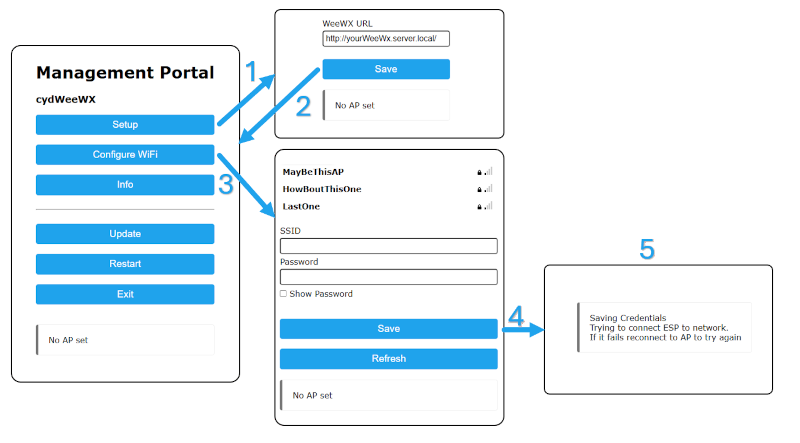
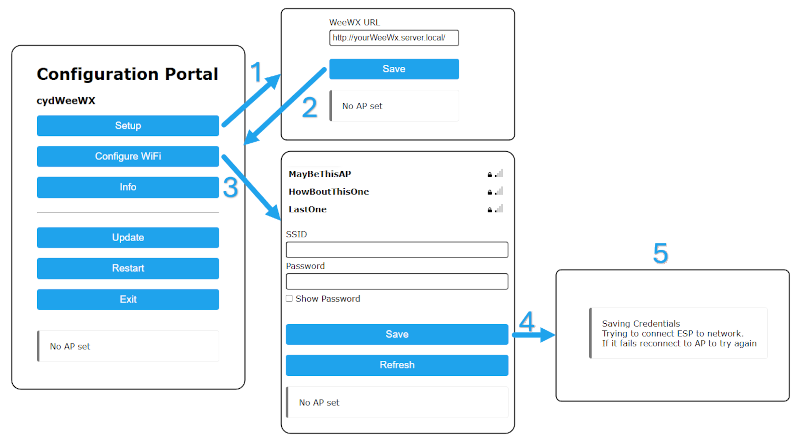
More clean up

diff --git a/cydWeeWX/weathericons_22c.h b/cydWeeWX/weathericons_22c.h
@@ -3,7 +3,7 @@
 // ** https://erikflowers.github.io/weather-icons/
 // ** Size: 22 px
 // ** Bpp: 4
-// ** Opts: --bpp 4 --size 22 --font weathericons-regular-webfont.ttf --range 61440-61675 --format lvgl -o weathericons_22c.h
+// ** Opts: --bpp 4 --size 22 --font weathericons-regular-webfont.ttf --range 61440-61675 --format lvgl -o weatherIcons_22c.h
 // **********************************************************************************
 // ** Included in the cydWeeWX project https://github.com/hcomet/cydWeeWX
 // **********************************************************************************
@@ -5177,9 +5177,9 @@ static lv_font_fmt_txt_dsc_t font_dsc_weathericons_22c = {
 
 /*Initialize a public general font descriptor*/
 #if LVGL_VERSION_MAJOR >= 8
-const lv_font_t weathericons_22c = {
+const lv_font_t weatherIcons_22c = {
 #else
-lv_font_t weathericons_22c = {
+lv_font_t weatherIcons_22c = {
 #endif
     .get_glyph_dsc = lv_font_get_glyph_dsc_fmt_txt,    /*Function pointer to get glyph's data*/
     .get_glyph_bitmap = lv_font_get_bitmap_fmt_txt,    /*Function pointer to get glyph's bitmap*/

diff --git a/cydWeeWX/README.md b/cydWeeWX/README.md
@@ -1,14 +1,14 @@
-# Building and installing cydWeeWX
+# How to Build and Install cydWeeWX
 
 ## Set Up Your Build Environment
 
 1. Install the Arduino IDE.  
   <u>**NOTE:**</u>  Use of the latest 2.x version of the IDE is recommended since builds have only been verified with that version of the IDE.
-2. Add support for ESP32 modules using the Boards Manager in the Arduino IDE.  
+2. Add support for ESP32 modules using the _Boards Manager_ in the Arduino IDE.  
     * Install the boards plugin for esp32 by Espressif Systems version 3.x.
-3. The CYD uses an ESP32-WROOM and any if the basic boards definitions should work. I've used "`ESP32-WROOM-DA Module`" and "`ESP32 Dev Module`" without issue.
-4. The cydWeeWX uses [LVGL](https://lvgl.io/) which makes builds quite large. Make sure to select "`Minimal SPIFFS (1.9MB APP with OTA/190KB SPIFS)`"
-5. Install the following libraries if not already installed:
+3. The CYD uses an ESP32-WROOM and any if the basic boards definitions should work. I've used _ESP32-WROOM-DA Module_ and _ESP32 Dev Module_ without issue.
+4. The cydWeeWX uses [LVGL](https://lvgl.io/) which makes builds quite large. Make sure to select a **Partition Scheme** of _Minimal SPIFFS (1.9MB APP with OTA/190KB SPIFS)_.
+5. Install the following Arduino libraries if not already installed:
    * [ArduinoJson by Benoit Blanchon](https://arduinojson.org/) - Version: 7.2.1
    * [TaskScheduler by Anatoli Arkhipenko](https://github.com/arkhipenko/TaskScheduler) - Version: 3.8.5
    * [WiFiManager by tzapu](https://github.com/tzapu/WiFiManager) - Version 2.0.17
@@ -17,7 +17,7 @@
 
    <u>**NOTE:**</u> If newer versions of a library are available then only use new subversions not new major versions.
 
-6. Download the latest firmware release from <https://github.com/hcomet/cydWeeWX/releases>  
+6. Download the latest source code release from <https://github.com/hcomet/cydWeeWX/releases>  
   <u>**NOTE:**</u> After extracting the release to your file system open the ***cydWeeWX.ino*** file in the Arduino IDE. This will open the full set of source files in the IDE. Now configure the firmware before building it.
   
 ### Configure Firmware in the ***cydWeeWXDefines.h*** file
@@ -40,8 +40,7 @@ The cydWeeWX firmware may be built without any changes to the default settings i
     #define CYD_WWX_BL_BRIGHTNESS 100
     ```  
     
-  * Pre-configure configuration portal items.
-  * By default the cydWeeWX will concatenate a 4 digit random value to the end of the Access Point base password resulting in _cydWeeWx####_. This is done on each boot of the device. Commenting out this line will prevent the random value concatenation resulting in _cydWeeWX_ being the password all the time.  
+  * By default the cydWeeWX will concatenate a 4 digit random value to the end of the Access Point base password resulting in _cydWeeWx####_. This is done on each boot of the device. Commenting out this line will prevent the random value concatenation resulting in same password being used all the time.  
   
     ```c
     #define WIFI_MANAGER_ENABLE_PASSWORD_RANDOM
@@ -55,20 +54,22 @@ The cydWeeWX firmware may be built without any changes to the default settings i
     #define CYD_WWX_WM_AP_PASSWORD CYD_WWX_WM_AP_NAME
     ```
 
-  * WOKWi Simulation setup is found [here](../WOKWi/README.md).
+  * A build for WOKWi Simulation maybe enabled using the details found [here](../WOKWi/README.md). The default is to disable WOKWi builds since they will not work properly on the physical cydWeeWX.
   
 ### TSP-eSPI ***User_Setup.h***
 
-A ***User_Setup.h*** file that matches your CYD must be placed in the Arduino TFT_eSPI library folder. The one provided in Brian Lough's github [ESP32-Cheap-Yellow-Display](https://github.com/witnessmenow/ESP32-Cheap-Yellow-Display) repository generally works. It can be found at [User_Setup.h](https://github.com/witnessmenow/ESP32-Cheap-Yellow-Display/blob/main/DisplayConfig/User_Setup.h). Read the [CYD Setup](https://github.com/witnessmenow/ESP32-Cheap-Yellow-Display/blob/main/SETUP.md) instructions. 
-
-If you are having display issues then you may have the wrong driver defined. Classic CYD devices seem to work well with either _ILI9341_DRIVER _ or _ILI9341_2_DRIVER _. My CYD had the combination USB2 and USB3 ports and worked well with _ST7789_DRIVER_.
+A ***User_Setup.h*** file that matches your CYD must be placed in the Arduino TFT_eSPI library folder. Brian Lough's github [ESP32-Cheap-Yellow-Display](https://github.com/witnessmenow/ESP32-Cheap-Yellow-Display) repository provides two basic versions that generally work. One is for CYD boards with a single USB port, [User_Setup.h](https://github.com/witnessmenow/ESP32-Cheap-Yellow-Display/blob/main/DisplayConfig/User_Setup.h). The second is for CYD boards with two USB ports, [User_Setup.h](https://github.com/witnessmenow/ESP32-Cheap-Yellow-Display/blob/main/DisplayConfig/CYD2USB/User_Setup.h). Also be sure to read the general [CYD Setup](https://github.com/witnessmenow/ESP32-Cheap-Yellow-Display/blob/main/SETUP.md) instructions. 
 
 ### LVGL ***lv_conf.h***
 
+The LVGL library needs a ***lv_conf.h*** file set up for your device. There is one included with the cydWeeWX source code, [lv_conf.h](./lv_conf.h). You can leave it in the sketch folder. If you already have one in your ***Arduino/libraries*** folder you may need to replace it with the cydWeeWX version of the file.
+
 ## WeeWX-JSON Extension Installation
+
+The cydWeeWX device makes queries to your WeeWX server to pick up current weather data for your weather station. The WeeWX server needs to be configured to support weewx-json report generation. Follow these [instructions](../WeeWX/README.md) to complete the configuration.
 
 ## Build and Run
 
-1. After configuring values in the ***cydWeeWXDefines.h***, using the Arduino IDE build and upload the firmware to your ESP32-CYD.
+1. After completing the steps above, use the Arduino IDE to build and upload the firmware to your ESP32-CYD.
 2. Follow the [steps](../README.md/#configuration-portal-steps) to set up your WiFi connection and WeeWX URL.
-3. 
+3. Your ESP32-CYD should now be a working cydWeeWX.

diff --git a/README.md b/README.md
@@ -31,7 +31,7 @@ WMO icon and icon colors will change based in whether it is currently night or d
   <img src="./images/cydWeeWXNight.jpg" />
 </p>
 
-The cydWeeWX device makes use of Arduino [WiFi Manager](https://github.com/tzapu/WiFiManager) library to implement a configuration portal. The configuration portal allows you to set up the WiFi configuration as well as input the URL for your WeeWX server.
+The cydWeeWX device makes use of Arduino [WiFi Manager](https://github.com/tzapu/WiFiManager) library to implement a Configuration Portal. The Configuration Portal allows you to set up the WiFi configuration as well as input the URL for your WeeWX server.
 
 ## Configuration
 
@@ -50,7 +50,7 @@ With a phone, tablet or PC, connect to the cydWeeWX access point at the indicate
 </p>
 
 1. Click on the **Setup** button to go to a page where you can enter your WeeWX URL. The URL must start with "_HTTP://_" and end with a slash, "_/_".
-2. Click **Save** to save the WeeWX URL and hit the browser back button to return to the COnfiguration Portal main page.
+2. Click **Save** to save the WeeWX URL and hit the browser back button to return to the Configuration Portal main page.
 3. Now click **Configure WiFi** to go to the WiFi configuration page.
 4. Enter the _SSID_ and _Password_ for you WiFI network then click **Save**.
 5. At this point the cydWeeWX will attempt to connect to your WiFi network and then display your current weather data.
@@ -82,3 +82,11 @@ The Configuration Portal will timeout after 5 minutes. If WiFi connectivity has 
 ## WOKWi Simulation
 
 The display images shown above were generated using a [WOKWi](https://wokwi.com) simulation of the cydWeeWX. The firmware is too large to use directly on the WOKWi web site but it will run using the VS Code plugin. How to set up the VS Code plugin can be found on the [WOKWi](https://docs.wokwi.com/vscode/getting-started) site. Information about how to build cydWeeWX firmware for simulation can be found [here](./WOKWi/README.md).
+
+## Third Party Acknowledgements
+
+* Brian Lough's [ESP32-Cheap-Yellow-Display](https://github.com/witnessmenow/ESP32-Cheap-Yellow-Display/tree/main) site. A great place to go for information on the CYD.
+* [WeeWX](https://www.weewx.com/) open source software for your weather station.
+* Erik Flowers' [Weather Icons](https://erikflowers.github.io/weather-icons/) site. The icons used in the cydWeeWX are LVGL fonts derived from the Weather Icons TTF font created by Erik Flowers. The [weatherIcons_22c.h](./cydWeeWX/weatherIcons_22c.h) and [wmoIcons_64c.h](./cydWeeWX/wmoIcons_64c.h) font files we're produced from the Weather Icons TTF font using the [LVGL Font Converter](https://lvgl.io/tools/fontconverter).
+* [DejaVu Fonts](https://dejavu-fonts.github.io/) used to produce the [dejaVuSansCondensed_18c.h](./cydWeeWX/dejaVuSansCondensed_18c.h) font file with the [LVGL Font Converter](https://lvgl.io/tools/fontconverter).
+
